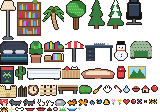
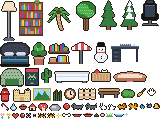
Fit the widget on its screen, calm the RGB theme, uncut the palm
- The widget trims itself back onto its screen when it reaches past the
  edge (the desktop's layout area can be bigger than the screen after
  scaling or rotation changes), and placements measure the real screen.
  A hand-arranged board with more rows than fit shrinks its rows to fit.
- RGB: a thin rim per tile cut from one rainbow over the whole board,
  flowing slowly from top to bottom at a slight angle, on the shared
  once-a-second tick (no more 10 fps timer).
- Outlined pictures get a pixel of margin, so the palm's fronds and the
  edges of other pictures are no longer cut off.

Claude-Session: https://claude.ai/code/session_016tt8wr56mbyVdCwUwGZMfD

diff --git a/package/contents/code/props.js b/package/contents/code/props.js
@@ -3,69 +3,69 @@
 // Made by tools/props.py: where each picture sits in images/props.png,
 // as [x, y, width, height] in pixels. Don't edit by hand.
 
-var SHEET = [160, 112];
+var SHEET = [160, 119];
 
 var AT = {
-    "armchair": [130, 41, 22, 18],
-    "ball": [131, 99, 5, 5],
-    "basket": [62, 66, 18, 13],
-    "bed": [81, 66, 35, 13],
-    "bed_front": [0, 41, 28, 24],
-    "bench": [58, 85, 20, 9],
-    "bird1": [89, 99, 6, 6],
-    "bird2": [96, 99, 6, 6],
-    "bone": [15, 107, 9, 4],
-    "bookshelf": [17, 0, 24, 36],
-    "bowl": [25, 107, 10, 4],
-    "bowl_full": [36, 107, 10, 4],
-    "bush": [79, 85, 13, 9],
-    "butterfly1": [137, 99, 5, 5],
-    "butterfly2": [143, 99, 5, 5],
-    "cactus": [15, 66, 11, 14],
-    "chair_back": [126, 0, 16, 25],
-    "clock": [28, 85, 11, 11],
-    "crab1": [149, 99, 8, 5],
-    "crab2": [0, 107, 8, 5],
-    "desk_front": [85, 41, 28, 20],
-    "drop": [78, 107, 3, 3],
-    "duck": [103, 99, 7, 6],
-    "fence": [40, 85, 17, 11],
-    "flower": [111, 99, 5, 6],
-    "flower2": [117, 99, 5, 6],
-    "heart": [123, 99, 7, 6],
-    "hydrant": [117, 66, 10, 13],
-    "i_bath": [123, 85, 8, 8],
-    "i_clean": [93, 85, 9, 9],
-    "i_feed": [132, 85, 8, 8],
-    "i_home": [141, 85, 9, 8],
-    "i_pet": [103, 85, 9, 9],
-    "i_play": [151, 85, 7, 7],
-    "i_walk": [113, 85, 9, 9],
-    "lamp": [0, 0, 16, 40],
-    "mushroom": [0, 99, 8, 7],
-    "pal1": [9, 99, 13, 7],
-    "pal2": [23, 99, 13, 7],
-    "palm": [42, 0, 22, 30],
-    "picture": [128, 66, 18, 13],
-    "pine": [88, 0, 18, 29],
-    "pine_snow": [107, 0, 18, 29],
-    "plant": [29, 41, 14, 22],
-    "poop": [47, 107, 5, 4],
-    "poster_invader": [0, 66, 14, 18],
-    "rabbit1": [37, 99, 8, 7],
-    "rabbit2": [46, 99, 8, 7],
-    "reeds": [18, 85, 9, 12],
-    "rock": [55, 99, 11, 7],
-    "sandcastle": [0, 85, 17, 13],
-    "shelf_wall": [44, 41, 20, 21],
-    "shell": [53, 107, 5, 4],
-    "snowman": [114, 41, 15, 20],
-    "sparkle": [9, 107, 5, 5],
-    "squirrel1": [67, 99, 10, 7],
-    "squirrel2": [78, 99, 10, 7],
-    "tree": [65, 0, 22, 30],
-    "tub": [27, 66, 34, 14],
-    "tuft": [59, 107, 7, 4],
-    "umbrella": [65, 41, 19, 21],
-    "water": [67, 107, 10, 4]
+    "armchair": [0, 68, 24, 19],
+    "ball": [20, 113, 5, 5],
+    "basket": [91, 68, 20, 14],
+    "bed": [112, 68, 37, 14],
+    "bed_front": [0, 42, 30, 25],
+    "bench": [98, 88, 22, 10],
+    "bird1": [139, 103, 6, 6],
+    "bird2": [146, 103, 6, 6],
+    "bone": [62, 113, 9, 4],
+    "bookshelf": [19, 0, 24, 36],
+    "bowl": [72, 113, 10, 4],
+    "bowl_full": [83, 113, 10, 4],
+    "bush": [121, 88, 15, 10],
+    "butterfly1": [26, 113, 5, 5],
+    "butterfly2": [32, 113, 5, 5],
+    "cactus": [40, 68, 13, 15],
+    "chair_back": [141, 0, 18, 26],
+    "clock": [64, 88, 13, 12],
+    "crab1": [38, 113, 8, 5],
+    "crab2": [47, 113, 8, 5],
+    "desk_front": [111, 42, 28, 20],
+    "drop": [125, 113, 3, 3],
+    "duck": [153, 103, 7, 6],
+    "fence": [78, 88, 19, 12],
+    "flower": [0, 113, 5, 6],
+    "flower2": [6, 113, 5, 6],
+    "heart": [12, 113, 7, 6],
+    "hydrant": [0, 88, 12, 14],
+    "i_bath": [10, 103, 8, 8],
+    "i_clean": [137, 88, 9, 9],
+    "i_feed": [19, 103, 8, 8],
+    "i_home": [28, 103, 9, 8],
+    "i_pet": [147, 88, 9, 9],
+    "i_play": [63, 103, 7, 7],
+    "i_walk": [0, 103, 9, 9],
+    "lamp": [0, 0, 18, 41],
+    "mushroom": [38, 103, 10, 8],
+    "pal1": [71, 103, 13, 7],
+    "pal2": [85, 103, 13, 7],
+    "palm": [44, 0, 29, 31],
+    "picture": [33, 88, 18, 13],
+    "pine": [99, 0, 20, 30],
+    "pine_snow": [120, 0, 20, 30],
+    "plant": [31, 42, 16, 23],
+    "poop": [94, 113, 5, 4],
+    "poster_invader": [25, 68, 14, 18],
+    "rabbit1": [99, 103, 8, 7],
+    "rabbit2": [108, 103, 8, 7],
+    "reeds": [52, 88, 11, 13],
+    "rock": [49, 103, 13, 8],
+    "sandcastle": [13, 88, 19, 14],
+    "shelf_wall": [48, 42, 22, 22],
+    "shell": [100, 113, 5, 4],
+    "snowman": [93, 42, 17, 21],
+    "sparkle": [56, 113, 5, 5],
+    "squirrel1": [117, 103, 10, 7],
+    "squirrel2": [128, 103, 10, 7],
+    "tree": [74, 0, 24, 31],
+    "tub": [54, 68, 36, 15],
+    "tuft": [106, 113, 7, 4],
+    "umbrella": [71, 42, 21, 22],
+    "water": [114, 113, 10, 4]
 };

diff --git a/package/contents/ui/GlassTile.qml b/package/contents/ui/GlassTile.qml
@@ -111,29 +111,48 @@ Item {
     readonly property bool rgbOn: look ? look.rgb === true : false
     readonly property string edgeColor: look && look.edge ? look.edge : ""
     readonly property real rgbPhase: rgbOn && look.rgbClock ? look.rgbClock.phase : 0
-    // One color field across the whole board: the hue at a point depends on
-    // where it is on the board, so where one tile's rim ends the next one's
-    // carries on, and it all flows along together.
-    readonly property real boardW: parent && parent.parent ? Math.max(1, parent.parent.width) : Math.max(1, width)
-    readonly property real gx: rgbOn && parent ? parent.x : 0
-    readonly property real gy: rgbOn && parent ? parent.y : 0
-    function rgbAt(f) {      // f: 0..1 across this tile
-        var h = rgbPhase - (gx + f * width + gy * 0.6) / (boardW * 1.4);
-        return Qt.hsla((h % 1 + 1) % 1, 1, 0.55, 1);
-    }
-    Repeater {
-        model: tile.rgbOn ? [[5, 0.14], [2, 1]] : []
-        Rectangle {
-            required property var modelData
-            x: -modelData[0]; y: -modelData[0]
-            width: tile.width + modelData[0] * 2; height: tile.height + modelData[0] * 2
-            radius: tile.radius + modelData[0]
-            opacity: modelData[1]
-            gradient: Gradient {
-                orientation: Gradient.Horizontal
-                GradientStop { position: 0; color: tile.rgbAt(0) }
-                GradientStop { position: 0.5; color: tile.rgbAt(0.5) }
-                GradientStop { position: 1; color: tile.rgbAt(1) }
+    // A thin rim cut from one rainbow gradient laid over the whole board.
+    // It runs top to bottom, tilted a little to the right, and drifts down
+    // a tiny step each second, so the colors flow down across the tiles.
+    readonly property real rgbHue: ((rgbPhase % 1) + 1) % 1
+    readonly property Item rgbBoard: rgbOn && parent && parent.parent ? parent.parent : null
+    // This tile's spot on the board (the slot it sits in).
+    readonly property real rgbX: rgbBoard ? parent.x : 0
+    readonly property real rgbY: rgbBoard ? parent.y : 0
+    // How far one full rainbow stretches, along the flow.
+    readonly property real rgbSpan: rgbBoard ? Math.max(200, rgbBoard.height * 0.7) : 400
+    function rgbStop(k) { return Qt.hsla((((k - rgbHue) % 1) + 1) % 1, 1, 0.58, 0.9); }
+    Shape {
+        id: rgbRim
+        visible: tile.rgbOn
+        anchors.fill: parent
+        z: 1                // over the card (it's only an outline)
+        preferredRendererType: Shape.CurveRenderer
+        readonly property real sw: 2
+        readonly property real r: tile.radius
+        ShapePath {
+            strokeWidth: 0
+            strokeColor: "transparent"
+            fillRule: ShapePath.OddEvenFill
+            // Direction of the flow: down, 15 degrees toward the right.
+            fillGradient: LinearGradient {
+                spread: ShapeGradient.RepeatSpread
+                x1: -tile.rgbX; y1: -tile.rgbY
+                x2: -tile.rgbX + tile.rgbSpan * 0.259; y2: -tile.rgbY + tile.rgbSpan * 0.966
+                GradientStop { position: 0;    color: tile.rgbStop(0) }
+                GradientStop { position: 0.17; color: tile.rgbStop(0.17) }
+                GradientStop { position: 0.33; color: tile.rgbStop(0.33) }
+                GradientStop { position: 0.5;  color: tile.rgbStop(0.5) }
+                GradientStop { position: 0.67; color: tile.rgbStop(0.67) }
+                GradientStop { position: 0.83; color: tile.rgbStop(0.83) }
+                GradientStop { position: 1;    color: tile.rgbStop(1) }
+            }
+            // A ring: the card's outline minus a slightly smaller one.
+            PathRectangle { width: rgbRim.width; height: rgbRim.height; radius: rgbRim.r }
+            PathRectangle {
+                x: rgbRim.sw; y: rgbRim.sw
+                width: rgbRim.width - rgbRim.sw * 2; height: rgbRim.height - rgbRim.sw * 2
+                radius: Math.max(0, rgbRim.r - rgbRim.sw)
             }
         }
     }

diff --git a/package/contents/ui/main.qml b/package/contents/ui/main.qml
@@ -246,7 +246,11 @@ PlasmoidItem {
         }
         var L = c.layout;
         var m = Kirigami.Units.gridUnit;
-        var W = L.width - 2 * m, H = L.height - 2 * m;
+        // The real screen, not just the desktop's layout area: that can be a
+        // little bigger (after display scaling or rotation changes), which
+        // put the bottom of the widget past the edge of the screen.
+        var W = Math.min(L.width, Screen.width || L.width) - 2 * m;
+        var H = Math.min(L.height, Screen.height || L.height) - 2 * m;
         var x = m + r[0] * W + (r[0] > 0 ? m / 2 : 0);
         var y = m + r[1] * H + (r[1] > 0 ? m / 2 : 0);
         var w = r[2] * W - (r[0] > 0 ? m / 2 : 0) - (r[0] + r[2] < 0.999 ? m / 2 : 0);
@@ -272,6 +276,27 @@ PlasmoidItem {
         target: Plasmoid.configuration
         function onPlaceRequestChanged() { root.handlePlaceRequest(); }
     }
+
+    // A widget that reaches past the edge of its screen (sized under another
+    // scale, or the layout area is bigger than the screen) is trimmed back,
+    // keeping the same margin as the other sides. Checked after loading and
+    // whenever the screen changes size.
+    function fitToScreen() {
+        var c = appletContainer();
+        if (!c || !(Screen.width > 0 && Screen.height > 0)) return;
+        // The same margin as on the top and left (within reason), so it looks even.
+        var m = Kirigami.Units.gridUnit;
+        var mr = c.x > 0 ? Math.min(c.x, m * 3) : m, mb = c.y > 0 ? Math.min(c.y, m * 3) : m;
+        var maxW = Screen.width - mr - c.x, maxH = Screen.height - mb - c.y;
+        if (c.width <= maxW + 1 && c.height <= maxH + 1) return;
+        c.width = Math.max(Kirigami.Units.gridUnit * 10, Math.min(c.width, maxW));
+        c.height = Math.max(Kirigami.Units.gridUnit * 8, Math.min(c.height, maxH));
+        c.layout.positionItem(c);
+        if (typeof c.layout.save === "function") c.layout.save();
+    }
+    readonly property real screenSize: Screen.width * 10000 + Screen.height
+    onScreenSizeChanged: fitTimer.restart()
+    Timer { id: fitTimer; interval: 2500; running: true; onTriggered: root.fitToScreen() }
     Component.onCompleted: {
         Qt.callLater(handlePlaceRequest);
         wakePet();
@@ -432,7 +457,7 @@ PlasmoidItem {
     property real gpuPowerSysfs: 0
     P5Support.DataSource {
         engine: "executable"
-        interval: 2000
+        interval: 1000
         // The path comes from specs.py output; only a real amdgpu power file is read.
         readonly property string file: root.specs.sensors && /^\/sys\/class\/drm\/card\d+\/device\/hwmon\/hwmon\d+\/power1_(average|input)$/.test(root.specs.sensors.gpuPowerFile || "")
             ? root.specs.sensors.gpuPowerFile : ""
@@ -473,15 +498,11 @@ PlasmoidItem {
             edge: !nativeStyle && th.edge ? th.edge : ""
         };
     }
-    // RGB theme: one shared, slowly turning hue. Five small steps a second,
-    // and only while the theme is on (every step redraws the desktop).
-    QtObject { id: rgbClock; property real phase: 0 }
-    Timer {
-        interval: 200
-        running: root.look.rgb && !root.editing
-        repeat: true
-        onTriggered: rgbClock.phase = (rgbClock.phase + 0.012) % 1
-    }
+    // RGB theme: one color for every tile's rim, drifting once round the
+    // rainbow every two minutes. It moves on the shared tick, in steps too
+    // small to see, so it looks smooth without redrawing more than once a
+    // second.
+    QtObject { id: rgbClock; property real phase: (root.tick % 120) / 120 }
     // Bundled pixel font (Silkscreen, SIL OFL; see fonts/OFL.txt).
     FontLoader { id: pixelFont; source: "../fonts/Silkscreen-Regular.ttf" }
     readonly property string pixelFontName: pixelFont.status === FontLoader.Ready ? pixelFont.name : ""

diff --git a/package/contents/code/layout.js b/package/contents/code/layout.js
@@ -319,7 +319,11 @@ function plan(ids, width, height, gridUnit, gap, density, fill, forced, manual, 
     }
     var cellW = (width - gap * (chosen.cols - 1)) / chosen.cols;
     var cellH;
-    if (fill && result.rows <= chosen.rows) cellH = (height - gap * (result.rows - 1)) / result.rows;
+    var fitted = (height - gap * (result.rows - 1)) / result.rows;
+    if (fill && result.rows <= chosen.rows) cellH = fitted;
+    // A hand-arranged layout with more rows than fit: squeeze the rows to the
+    // height (down to a readable minimum) rather than run off the screen.
+    else if (fill && manual) cellH = Math.max(gridUnit * 5, fitted);
     else cellH = Math.min(cellW, DENSITY[chosen.key] * gridUnit * 1.1);
     return { cols: chosen.cols, rows: result.rows, cellW: cellW, cellH: cellH, density: chosen.key, rects: result.rects, portrait: portrait };
 }

diff --git a/tools/props.py b/tools/props.py
@@ -80,6 +80,15 @@ class Canvas:
 def shape(name, w, h, draw, outline=True):
     c = Canvas(w, h)
     draw(c)
+    if outline:
+        # A pixel of room left, right and on top, so the outline is never cut
+        # off by the edge of the canvas (the bottom stays flush: things stand
+        # on the floor).
+        big = Canvas(w + 2, h + 1)
+        for y in range(h):
+            for x in range(w):
+                big.g[y + 1][x + 1] = c.g[y][x]
+        c = big
     SPRITES[name] = c.rows(outline)
 
 
@@ -331,17 +340,17 @@ shape("pine_snow", 18, 29, lambda c: pine(c, True))
 
 def palm(c):
     for i in range(18):                      # curved trunk
-        x = int(10 + (i / 18) ** 2 * 4)
+        x = int(12 + (i / 18) ** 2 * 4)
         c.rect(x, 11 + i, 3, 1, "H" if i % 3 == 0 else "t")
     # Fronds: arcs out from the top that droop at the ends.
     for dx, lift in ((-10, 1), (10, 1), (-9, -6), (9, -6), (-4, -11), (4, -11)):
         for t in range(12):
             k = t / 11
-            x = 11 + dx * k
+            x = 13 + dx * k
             y = 11 + lift * k + 8 * k * k
             c.rect(int(round(x)), int(round(y)), 2, 2 if t < 9 else 1, "g" if t % 4 else "G")
-    c.ell(11.5, 11, 2.2, 1.8, "B")
-shape("palm", 22, 30, palm)
+    c.ell(13.5, 11, 2.2, 1.8, "B")
+shape("palm", 27, 30, palm)
 
 
 def bush(c):

diff --git a/CHANGELOG.md b/CHANGELOG.md
@@ -1,5 +1,19 @@
 # What's new
 
+## Unreleased
+
+- **RGB theme** is calmer: a thin rim on every tile, cut from one rainbow
+  laid over the whole board, flowing slowly from top to bottom at a slight
+  angle. No more glow or moving parts, and it no longer redraws the
+  desktop ten times a second.
+- The widget no longer runs off the bottom of the screen: if it's bigger
+  than its screen (the desktop's layout area can be larger than the screen
+  after scaling or rotation changes), it trims itself to fit, and the
+  placements measure the real screen. A board arranged by hand with more
+  rows than fit also shrinks its rows to fit.
+- The palm tree's fronds (and the edges of some other pictures, like the
+  pines, bush and hydrant) are no longer cut off.
+
 ## 0.7.0
 
 - **New Uptime tile.** How long your PC has been on, over a scene you pick:
